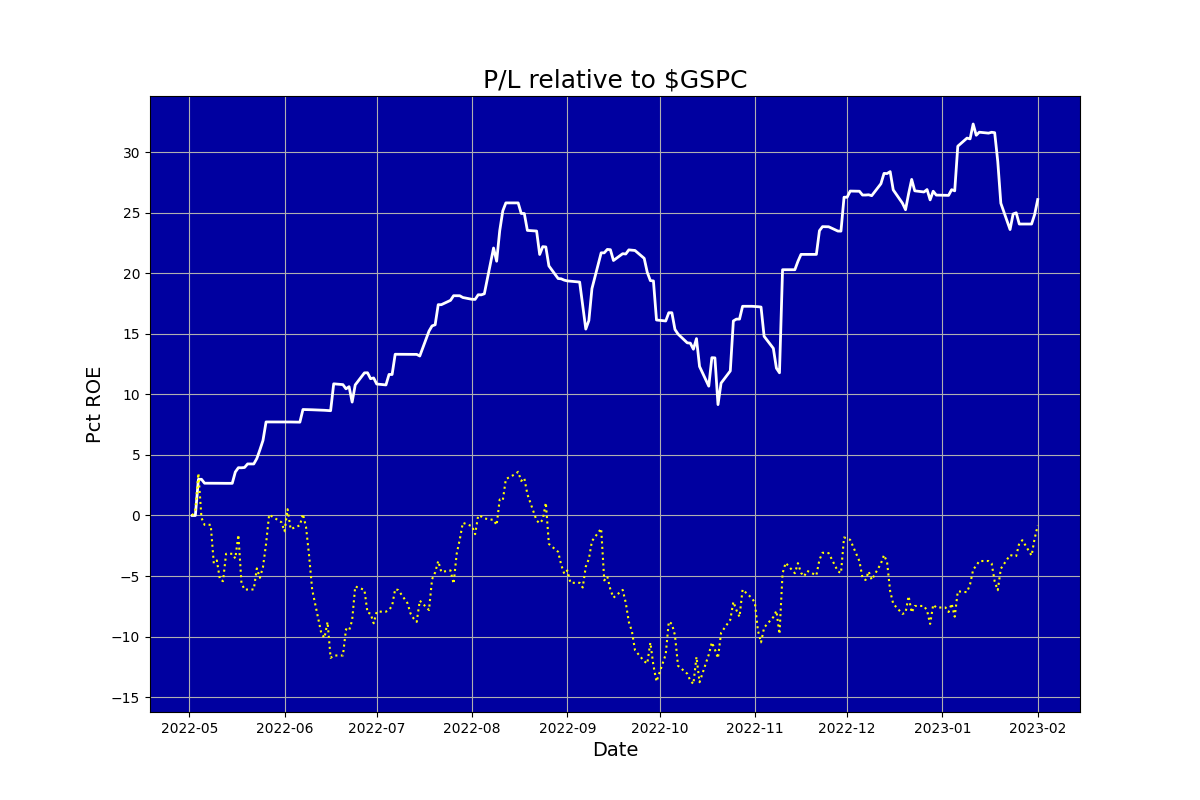
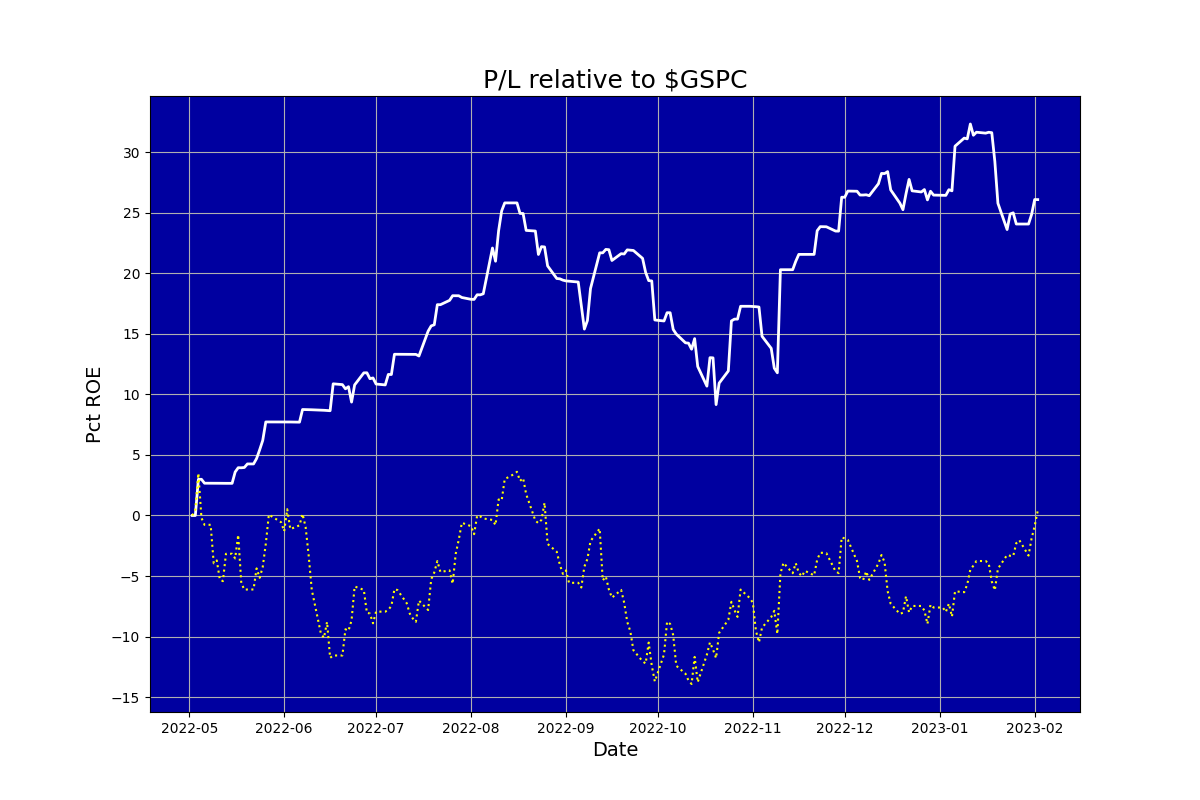
Updated

diff --git a/ig_report.html b/ig_report.html
@@ -1,1 +1,1 @@
-<html><body><center><h1>Auriel (never knowingly overbought)</h1></center><table cols=2><tr><td><img src=ig_pl.png></td><td><table cols=2><tr><td colspan=2><b><br>Snapshot</b></td></tr><tr><td>Last updated:&nbsp;&nbsp;&nbsp;</td><td>2023-02-01 15:56</td></tr><tr><td>Margin:&nbsp;&nbsp;&nbsp;</td><td>0.06</td></tr><tr><td>Cushion:&nbsp;&nbsp;&nbsp;</td><td>-4949.42</td></tr><tr><td>Last closed trade:&nbsp;&nbsp;&nbsp;</td><td>2023-02-01</td></tr><tr><td colspan=2><b><br>Positions</b></td></tr><tr><td>Mean days to new high:&nbsp;&nbsp;&nbsp;</td><td>11.31</td></tr><tr><td colspan=2><b><br>Trades</b></td></tr><tr><td>Traded days:&nbsp;&nbsp;&nbsp;</td><td>200</td></tr><tr><td>Profitable days pct:&nbsp;&nbsp;&nbsp;</td><td>35.50</td></tr><tr><td>Days beat S&P pct:&nbsp;&nbsp;&nbsp;</td><td>56.84</td></tr><tr><td>Profitable months pct:&nbsp;&nbsp;&nbsp;</td><td>80.00</td></tr><tr><td colspan=2><b><br>Performance</b></td></tr><tr><td>Pct median monthly ROE:&nbsp;&nbsp;&nbsp;</td><td>1.33</td></tr><tr><td>Pct annualised ROE:&nbsp;&nbsp;&nbsp;</td><td>32.62</td></tr><tr><td colspan=2><b><br>Risk</b></td></tr><tr><td>Volatility pct:&nbsp;&nbsp;&nbsp;</td><td>19.78</td></tr><tr><td>Benchmark volatility pct:&nbsp;&nbsp;&nbsp;</td><td>24.26</td></tr><tr><td>Sharpe ratio (RFR 5.0%):&nbsp;&nbsp;&nbsp;</td><td>1.49</td></tr><tr><td>Sortino ratio (RFR 5.0%):&nbsp;&nbsp;&nbsp;</td><td>2.30</td></tr><tr><td>Calmar ratio:&nbsp;&nbsp;&nbsp;</td><td>1.96</td></tr><tr><td>Worst drawdown pct:&nbsp;&nbsp;&nbsp;</td><td>-0.17</td></tr><tr><td>Recovery days from worst drawdown:&nbsp;&nbsp;&nbsp;</td><td>29.00</td></tr><tr><td>Beat benchmark +ve periods pct:&nbsp;&nbsp;&nbsp;</td><td>78.64</td></tr><tr><td>Beat benchmark -ve periods pct:&nbsp;&nbsp;&nbsp;</td><td>93.57</td></tr><tr><td>Correlation with benchmark:&nbsp;&nbsp;&nbsp;</td><td>0.38</td></tr></table></td></tr></table></body></html>
+<html><body><center><h1>Auriel (never knowingly overbought)</h1></center><table cols=2><tr><td><img src=ig_pl.png></td><td><table cols=2><tr><td colspan=2><b><br>Snapshot</b></td></tr><tr><td>Last updated:&nbsp;&nbsp;&nbsp;</td><td>2023-02-02 15:56</td></tr><tr><td>Margin:&nbsp;&nbsp;&nbsp;</td><td>0.17</td></tr><tr><td>Cushion:&nbsp;&nbsp;&nbsp;</td><td>-5146.18</td></tr><tr><td>Last closed trade:&nbsp;&nbsp;&nbsp;</td><td>2023-02-02</td></tr><tr><td colspan=2><b><br>Positions</b></td></tr><tr><td>Mean days to new high:&nbsp;&nbsp;&nbsp;</td><td>11.29</td></tr><tr><td colspan=2><b><br>Trades</b></td></tr><tr><td>Traded days:&nbsp;&nbsp;&nbsp;</td><td>201</td></tr><tr><td>Profitable days pct:&nbsp;&nbsp;&nbsp;</td><td>35.32</td></tr><tr><td>Days beat S&P pct:&nbsp;&nbsp;&nbsp;</td><td>56.54</td></tr><tr><td>Profitable months pct:&nbsp;&nbsp;&nbsp;</td><td>80.00</td></tr><tr><td colspan=2><b><br>Performance</b></td></tr><tr><td>Pct median monthly ROE:&nbsp;&nbsp;&nbsp;</td><td>1.33</td></tr><tr><td>Pct annualised ROE:&nbsp;&nbsp;&nbsp;</td><td>32.45</td></tr><tr><td colspan=2><b><br>Risk</b></td></tr><tr><td>Volatility pct:&nbsp;&nbsp;&nbsp;</td><td>19.73</td></tr><tr><td>Benchmark volatility pct:&nbsp;&nbsp;&nbsp;</td><td>24.21</td></tr><tr><td>Sharpe ratio (RFR 5.0%):&nbsp;&nbsp;&nbsp;</td><td>1.48</td></tr><tr><td>Sortino ratio (RFR 5.0%):&nbsp;&nbsp;&nbsp;</td><td>2.29</td></tr><tr><td>Calmar ratio:&nbsp;&nbsp;&nbsp;</td><td>1.95</td></tr><tr><td>Worst drawdown pct:&nbsp;&nbsp;&nbsp;</td><td>-0.17</td></tr><tr><td>Recovery days from worst drawdown:&nbsp;&nbsp;&nbsp;</td><td>29.00</td></tr><tr><td>Beat benchmark +ve periods pct:&nbsp;&nbsp;&nbsp;</td><td>78.25</td></tr><tr><td>Beat benchmark -ve periods pct:&nbsp;&nbsp;&nbsp;</td><td>93.57</td></tr><tr><td>Correlation with benchmark:&nbsp;&nbsp;&nbsp;</td><td>0.38</td></tr></table></td></tr></table></body></html>
